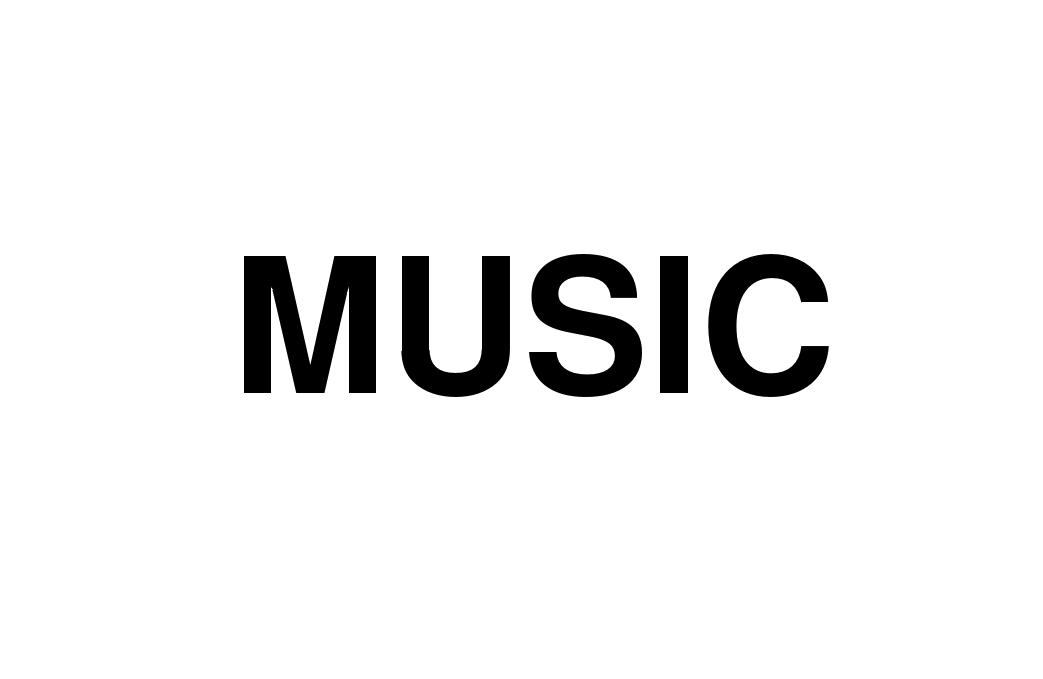
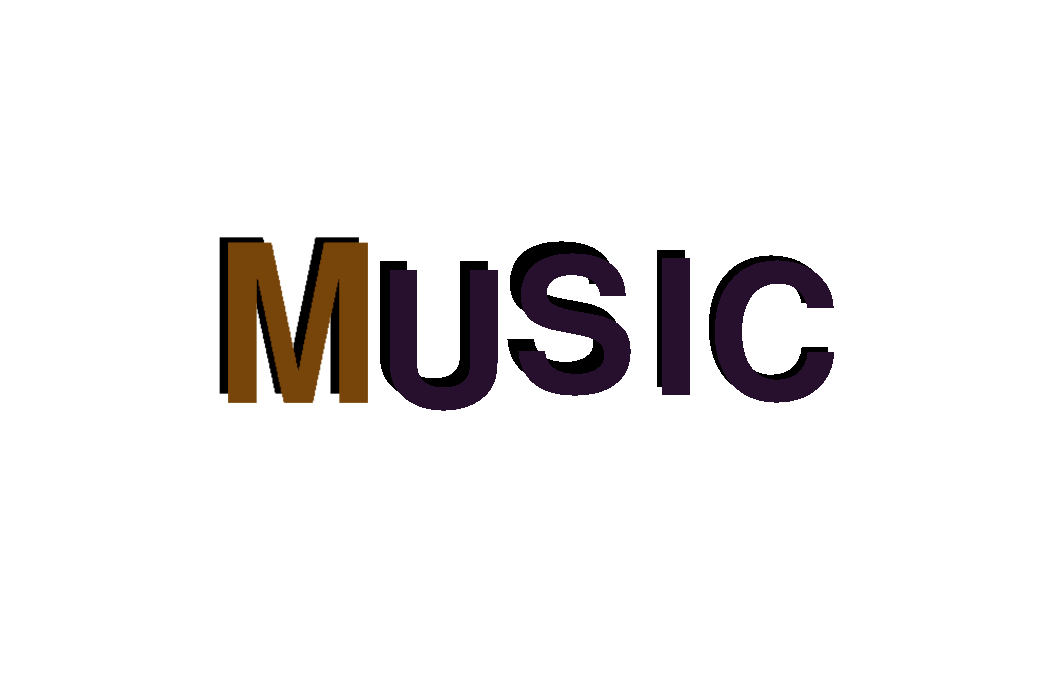
Add text to signs

Changed region(s): [[0.1841, 0.3402, 0.7977, 0.6186]]

diff --git a/src/FirstPersonCameraDemo.js b/src/FirstPersonCameraDemo.js
@@ -294,11 +294,11 @@ class FirstPersonCameraDemo {
       this.scene_.add(musicText);
 
 
-      const careerTextPicture = new THREE.TextureLoader().load('/Pictures/music.png');
+      const careerTextPicture = new THREE.TextureLoader().load('/Pictures/career.png');
       careerTextPicture.encoding = THREE.sRGBEncoding;
       
       // Create TV Display geometry and material
-      const careerTextGeometry = new THREE.PlaneGeometry(14, 9.5);
+      const careerTextGeometry = new THREE.PlaneGeometry(13, 9);
       const careerTextMaterial = new THREE.MeshBasicMaterial({ 
         map: careerTextPicture,
         transparent: true,
@@ -311,11 +311,11 @@ class FirstPersonCameraDemo {
       this.scene_.add(careerText);
 
 
-      const skillsTextPicture = new THREE.TextureLoader().load('/Pictures/music.png');
+      const skillsTextPicture = new THREE.TextureLoader().load('/Pictures/skills.png');
       skillsTextPicture.encoding = THREE.sRGBEncoding;
       
       // Create TV Display geometry and material
-      const skillsTextGeometry = new THREE.PlaneGeometry(14, 9.5);
+      const skillsTextGeometry = new THREE.PlaneGeometry(12, 8);
       const skillsTextMaterial = new THREE.MeshBasicMaterial({ 
         map: skillsTextPicture,
         transparent: true,
@@ -324,15 +324,15 @@ class FirstPersonCameraDemo {
 
       // Set initial properties of the TV Display
       skillsText.rotation.y = 5*Math.PI / 4;
-      skillsText.position.set(21.5, 16, 19.5);
+      skillsText.position.set(19.5, 16, 21.5);
       this.scene_.add(skillsText);
 
 
-      const ProjectsTextPicture = new THREE.TextureLoader().load('/Pictures/music.png');
+      const ProjectsTextPicture = new THREE.TextureLoader().load('/Pictures/projects.png');
       ProjectsTextPicture.encoding = THREE.sRGBEncoding;
       
       // Create TV Display geometry and material
-      const ProjectsTextGeometry = new THREE.PlaneGeometry(14, 9.5);
+      const ProjectsTextGeometry = new THREE.PlaneGeometry(13, 9);
       const ProjectsTextMaterial = new THREE.MeshBasicMaterial({ 
         map: ProjectsTextPicture,
         transparent: true,
@@ -341,7 +341,7 @@ class FirstPersonCameraDemo {
 
       // Set initial properties of the TV Display
       ProjectsText.rotation.y = 1*Math.PI / 4;
-      ProjectsText.position.set(-21.5, 16, -19.5);
+      ProjectsText.position.set(-19.5, 16, -21.5);
       this.scene_.add(ProjectsText);
 
     } catch (error) {
